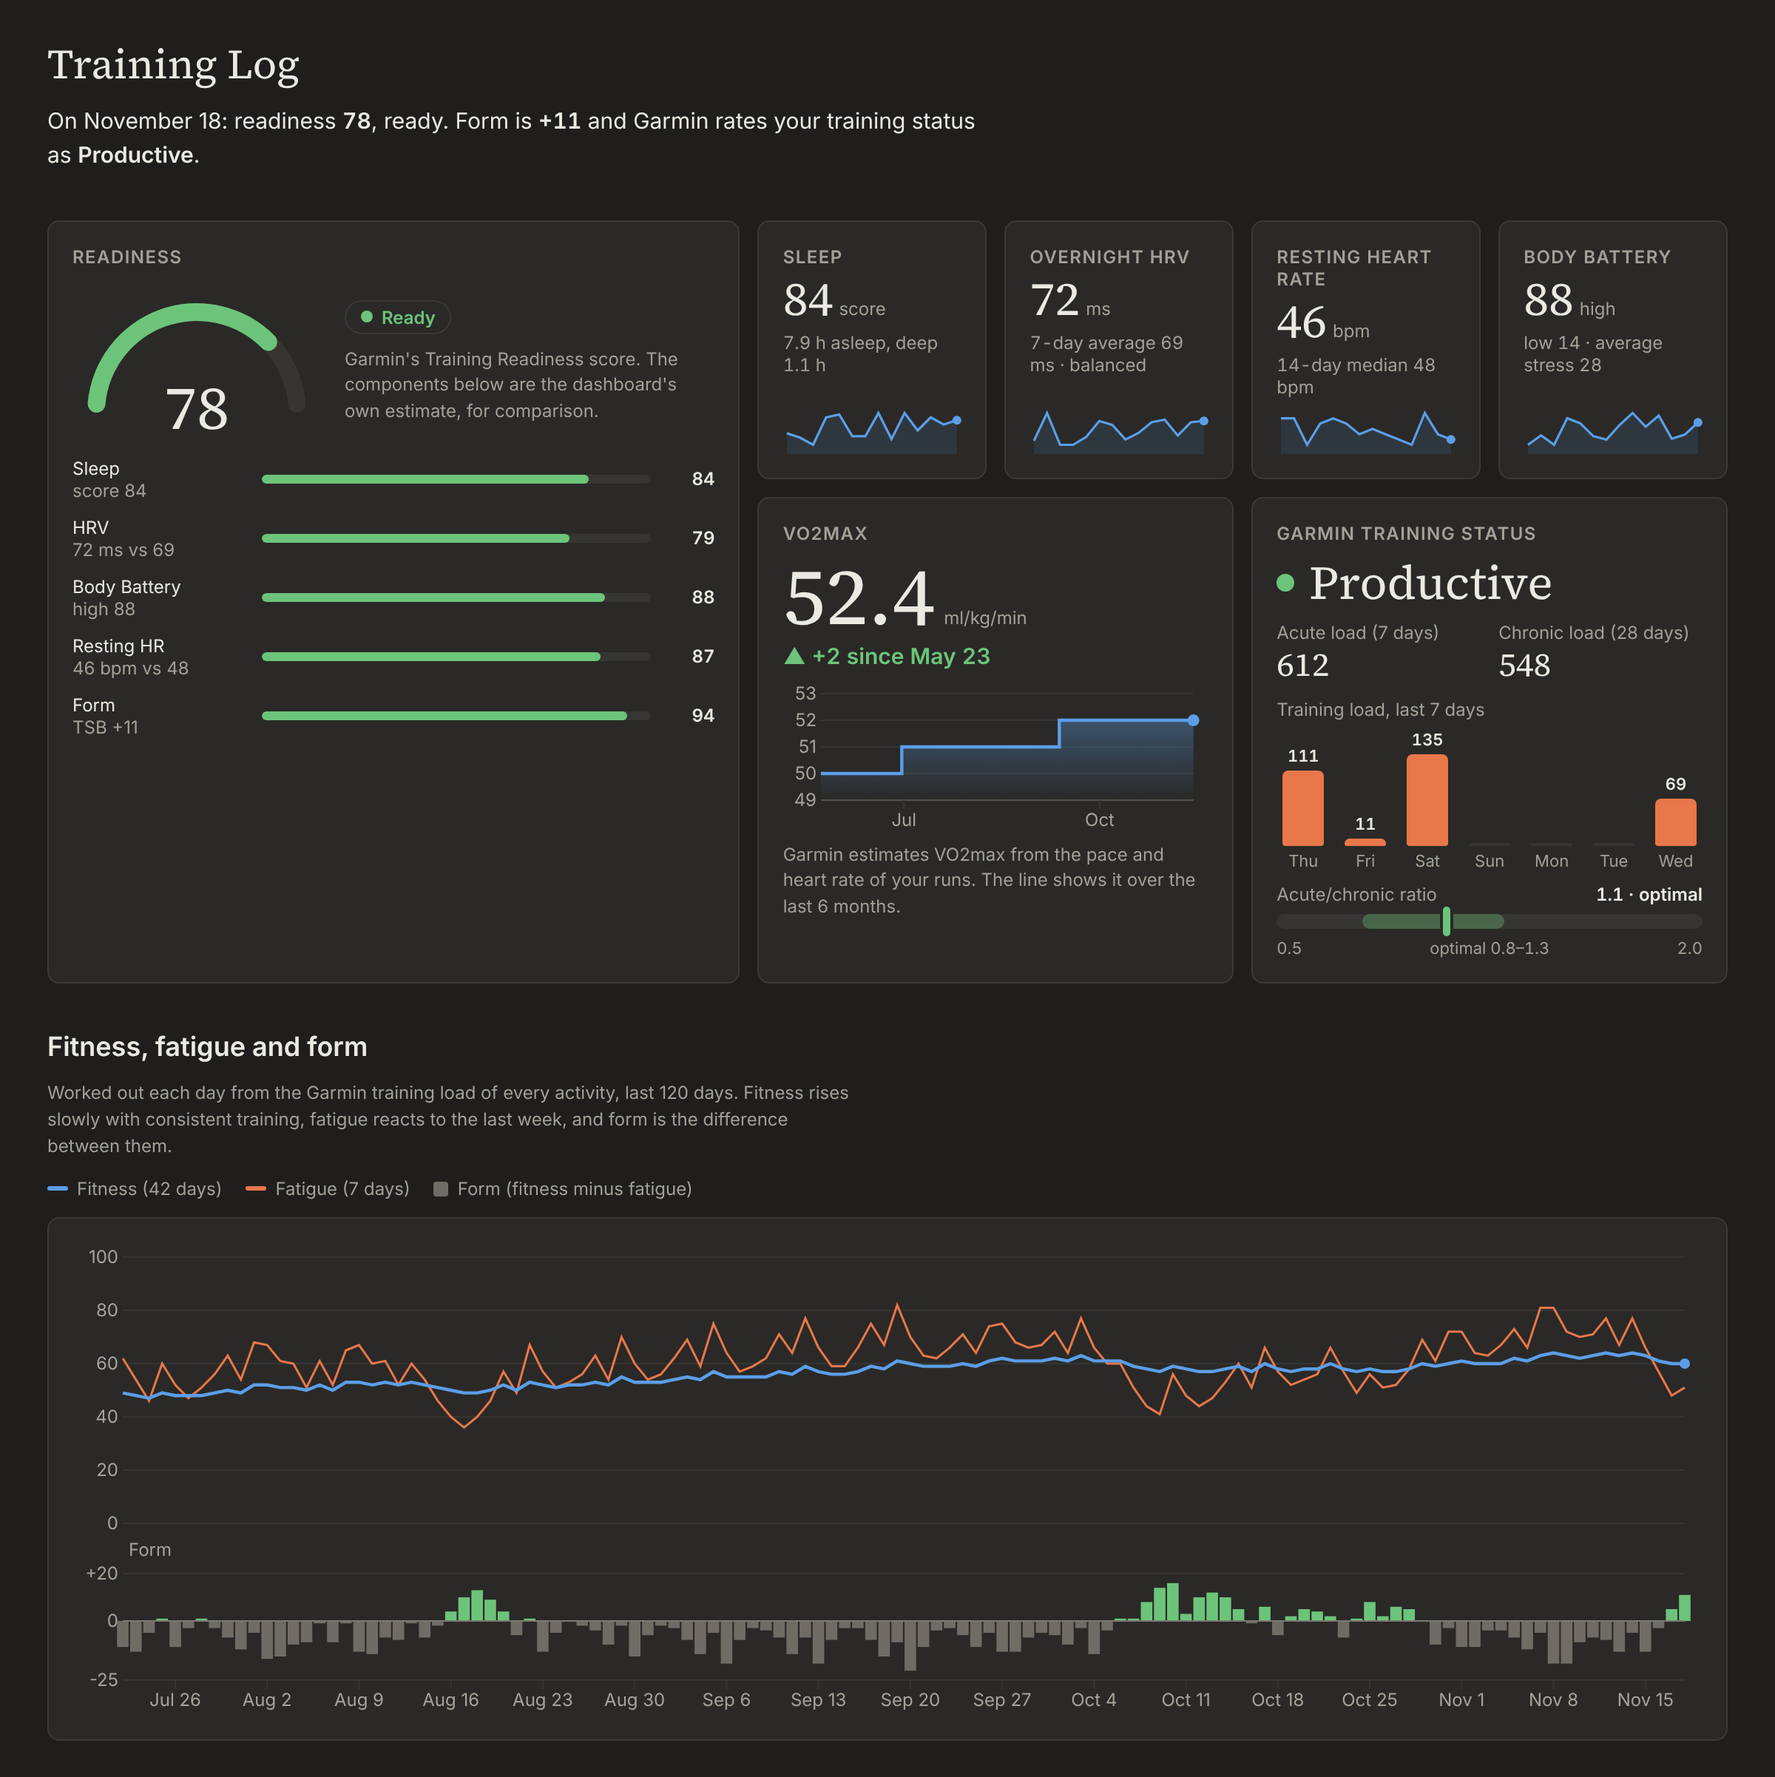
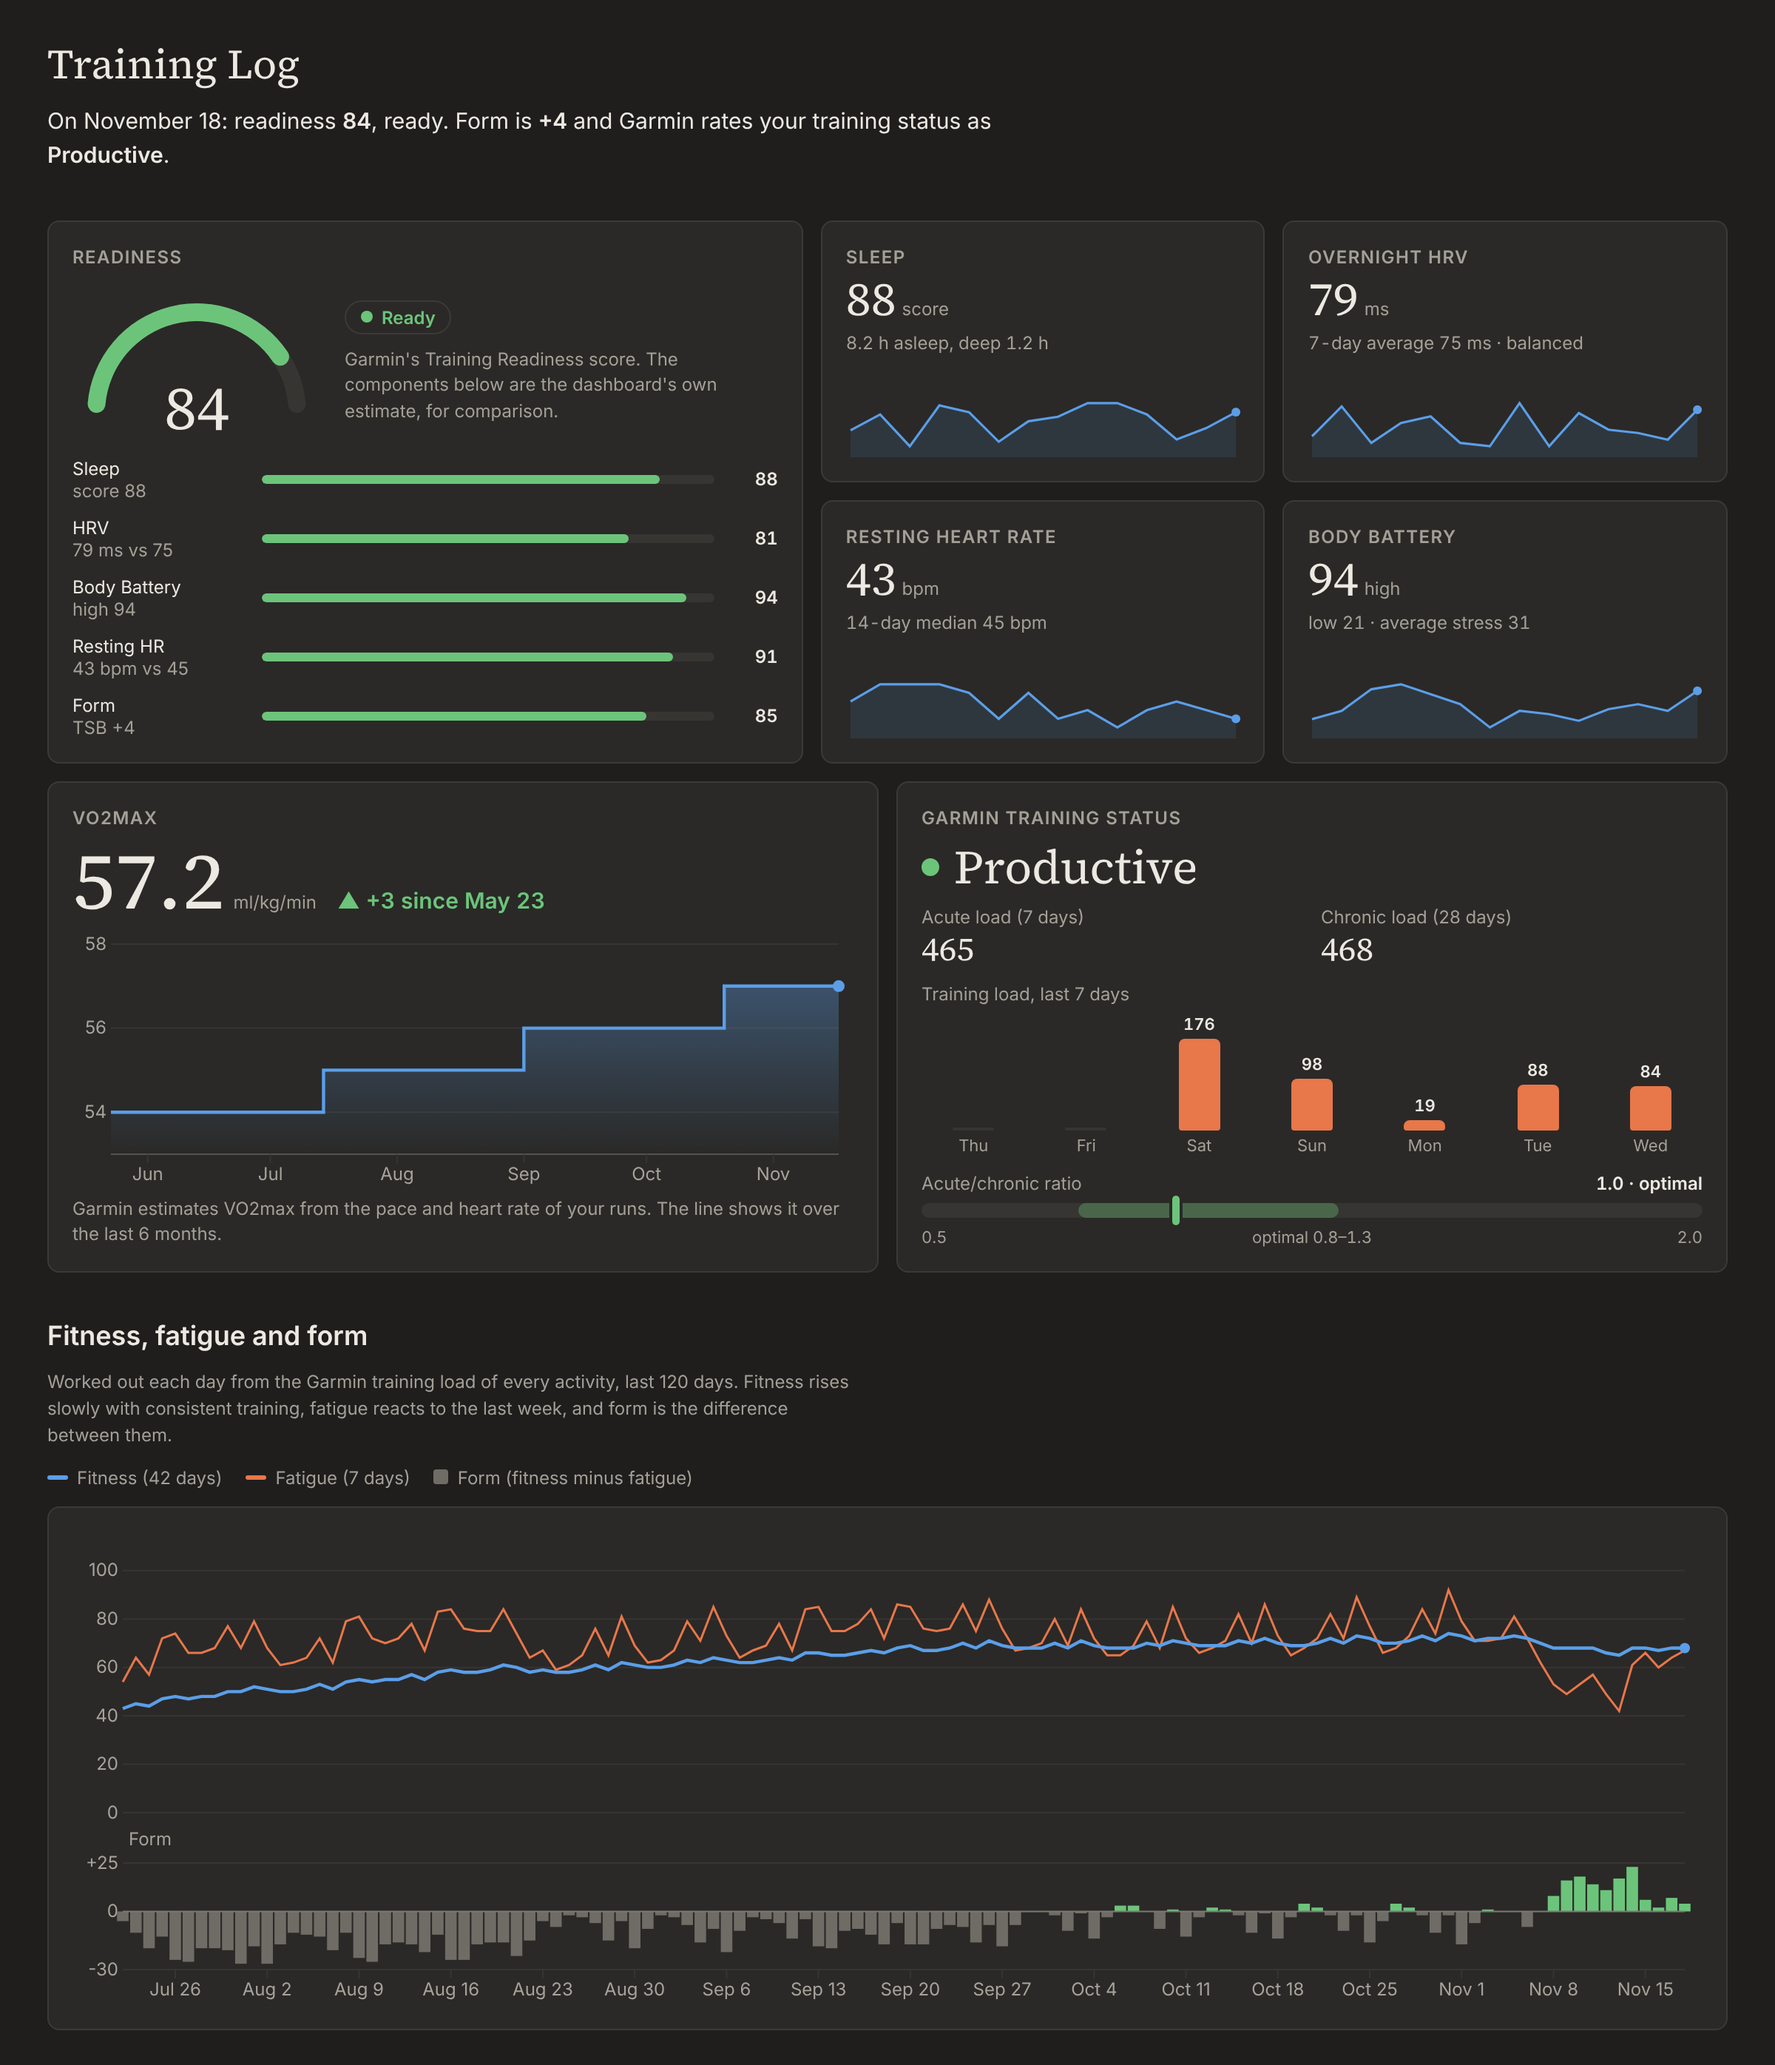
Tighter Today layout; livelier sample screenshots
The four small cards sit in a 2x2 grid beside readiness, so both
columns end level, and VO2max and the training status get their own
row with a taller VO2max chart. No card is left with empty space at
the bottom. README screenshots use new invented sample data whose
VO2max climbs from 54 to 57 and whose acute and chronic loads are
worked out from the sample sessions.

Claude-Session: https://claude.ai/code/session_01WWRtrPEG65dtcUr62con1J

diff --git a/dashboard/index.html b/dashboard/index.html
@@ -12,7 +12,7 @@
   .jt-card { background: var(--color-panel); border: 1px solid var(--color-border-line); border-radius: var(--cds-radius); padding: var(--cds-pad-lg); min-width: 0; }
 
   /* Today */
-  .jt-today { display: grid; grid-template-columns: minmax(0, 5fr) minmax(0, 7fr); gap: var(--cds-gap-md); }
+  .jt-today { display: grid; grid-template-columns: minmax(0, 5fr) minmax(0, 6fr); gap: var(--cds-gap-md); }
   @container (max-width: 760px) { .jt-today { grid-template-columns: minmax(0, 1fr); } }
   @media (max-width: 760px) { .jt-today { grid-template-columns: minmax(0, 1fr); } }
   .jt-ready { display: flex; flex-direction: column; gap: var(--cds-gap-md); }
@@ -34,13 +34,13 @@
   .jt-comp-bar i { display: block; height: 100%; border-radius: 3px; }
   .jt-comp-val { text-align: right; font-variant-numeric: tabular-nums; font-weight: var(--cds-font-weight-medium); }
 
-  .jt-tiles { display: grid; grid-template-columns: repeat(auto-fit, minmax(150px, 1fr)); gap: var(--cds-gap-md); }
+  .jt-tiles { display: grid; grid-template-columns: repeat(2, minmax(0, 1fr)); gap: var(--cds-gap-md); }
   .jt-tile { display: flex; flex-direction: column; gap: 4px; }
   .jt-big { margin: 0; font-family: var(--font-anthropic-serif); font-weight: 400; font-size: 2rem; line-height: 1.1; font-variant-numeric: tabular-nums; }
   .jt-big small { font-family: var(--font-anthropic-sans); font-size: var(--cds-font-size-caption); color: var(--color-fg-muted); margin-left: 4px; }
   .jt-sub { margin: 0; font-size: var(--cds-font-size-caption); color: var(--color-fg-muted); font-variant-numeric: tabular-nums; min-height: 1.3em; }
-  .jt-spark { height: 34px; margin-top: auto; }
-  .jt-duo { grid-column: 1 / -1; display: grid; grid-template-columns: repeat(auto-fit, minmax(17rem, 1fr)); gap: var(--cds-gap-md); }
+  .jt-spark { height: 44px; margin-top: auto; }
+  .jt-duo { display: grid; grid-template-columns: repeat(auto-fit, minmax(17rem, 1fr)); gap: var(--cds-gap-md); }
   .jt-status, .jt-vo2 { display: flex; flex-direction: column; gap: var(--cds-gap-sm); min-width: 0; }
   .jt-status-word { margin: 0; display: flex; align-items: center; gap: 10px; font-family: var(--font-anthropic-serif); font-weight: 400; font-size: 2rem; line-height: 1.15; overflow-wrap: anywhere; }
   .jt-status-dot { flex: none; width: 12px; height: 12px; border-radius: 50%; }
@@ -61,14 +61,14 @@
   .jt-vo2-delta { margin: 0; font-size: var(--cds-font-size-body); font-weight: var(--cds-font-weight-medium); font-variant-numeric: tabular-nums; color: var(--color-fg-muted); }
   .jt-vo2-delta.is-up { color: var(--color-ok); }
   .jt-vo2-delta.is-down { color: var(--color-bad); }
-  .jt-chart.jt-vo2-chart { min-height: 100px; }
+  .jt-chart.jt-vo2-chart { min-height: 170px; }
   .jt-week-load { display: flex; flex-direction: column; gap: 6px; }
   .jt-week-chart { display: flex; align-items: flex-end; gap: 6px; height: 96px; }
   .jt-wl-col { flex: 1 1 0; min-width: 0; height: 100%; display: flex; flex-direction: column; align-items: center; justify-content: flex-end; gap: 3px; font-size: 11px; color: var(--color-fg-muted); font-variant-numeric: tabular-nums; }
   .jt-wl-col b { color: var(--color-fg); font-weight: var(--cds-font-weight-medium); }
   .jt-wl-bar { width: 100%; max-width: 28px; min-height: 2px; border-radius: 4px 4px 2px 2px; }
   .jt-vo2-chart svg { display: block; width: 100%; overflow: visible; }
-  .jt-spark svg { display: block; width: 100%; height: 34px; overflow: visible; }
+  .jt-spark svg { display: block; width: 100%; height: 44px; overflow: visible; }
 
   /* Charts */
   .jt-chart { position: relative; min-height: 220px; width: 100%; }
@@ -176,35 +176,35 @@
           <p class="jt-sub" data-draw="bb-sub">—</p>
           <div class="jt-spark" data-draw="bb-spark" data-source="daily"></div>
         </article>
-        <div class="jt-duo">
-          <article class="jt-card jt-vo2" id="vo2max">
-            <h3 class="jt-label">VO2max</h3>
-            <div class="jt-vo2-main">
-              <p class="jt-vo2-val" data-draw="vo2-val">—</p>
-              <p class="jt-vo2-delta" data-draw="vo2-delta">—</p>
-            </div>
-            <div class="jt-chart jt-vo2-chart" id="chart-vo2max" data-draw="vo2-chart" data-source="vo2"></div>
-            <p class="jt-note">Garmin estimates VO2max from the pace and heart rate of your runs. The line shows it over the last 6 months.</p>
-          </article>
-          <article class="jt-card jt-status" id="status-garmin">
-            <h3 class="jt-label">Garmin training status</h3>
-            <p class="jt-status-word" data-draw="status-val">—</p>
-            <dl class="jt-status-stats">
-              <div><dt>Acute load (7 days)</dt><dd data-draw="status-acute">—</dd></div>
-              <div><dt>Chronic load (28 days)</dt><dd data-draw="status-chronic">—</dd></div>
-            </dl>
-            <div class="jt-week-load">
-              <div class="jt-acwr-head"><span>Training load, last 7 days</span></div>
-              <div class="jt-week-chart" id="chart-week-load" data-draw="load-week" data-source="pmc"></div>
-            </div>
-            <div class="jt-acwr">
-              <div class="jt-acwr-head"><span>Acute/chronic ratio</span><b data-draw="status-acwr">—</b></div>
-              <div class="jt-acwr-bar" data-draw="acwr-bar" data-source="status"></div>
-              <div class="jt-acwr-scale"><span>0.5</span><span>optimal 0.8–1.3</span><span>2.0</span></div>
-            </div>
-          </article>
-        </div>
       </div>
+    </div>
+    <div class="jt-duo">
+      <article class="jt-card jt-vo2" id="vo2max">
+        <h3 class="jt-label">VO2max</h3>
+        <div class="jt-vo2-main">
+          <p class="jt-vo2-val" data-draw="vo2-val">—</p>
+          <p class="jt-vo2-delta" data-draw="vo2-delta">—</p>
+        </div>
+        <div class="jt-chart jt-vo2-chart" id="chart-vo2max" data-draw="vo2-chart" data-source="vo2"></div>
+        <p class="jt-note">Garmin estimates VO2max from the pace and heart rate of your runs. The line shows it over the last 6 months.</p>
+      </article>
+      <article class="jt-card jt-status" id="status-garmin">
+        <h3 class="jt-label">Garmin training status</h3>
+        <p class="jt-status-word" data-draw="status-val">—</p>
+        <dl class="jt-status-stats">
+          <div><dt>Acute load (7 days)</dt><dd data-draw="status-acute">—</dd></div>
+          <div><dt>Chronic load (28 days)</dt><dd data-draw="status-chronic">—</dd></div>
+        </dl>
+        <div class="jt-week-load">
+          <div class="jt-acwr-head"><span>Training load, last 7 days</span></div>
+          <div class="jt-week-chart" id="chart-week-load" data-draw="load-week" data-source="pmc"></div>
+        </div>
+        <div class="jt-acwr">
+          <div class="jt-acwr-head"><span>Acute/chronic ratio</span><b data-draw="status-acwr">—</b></div>
+          <div class="jt-acwr-bar" data-draw="acwr-bar" data-source="status"></div>
+          <div class="jt-acwr-scale"><span>0.5</span><span>optimal 0.8–1.3</span><span>2.0</span></div>
+        </div>
+      </article>
     </div>
   </section>
 
@@ -783,7 +783,7 @@
       if (d.status !== 'ok') return;
       const rows = d.data.slice(0, 14).filter((r) => r[field] != null).reverse();
       if (rows.length < 2) return;
-      const w = Math.max(100, el.clientWidth || 160); const h = 34;
+      const w = Math.max(100, el.clientWidth || 160); const h = 44;
       const x = d3.scaleUtc().domain(d3.extent(rows, (r) => JT.parse(r.date))).range([3, w - 3]);
       const ext = d3.extent(rows, (r) => r[field]);
       const pad = (ext[1] - ext[0]) * 0.15 || 2;
@@ -916,7 +916,7 @@
     const V = dash.data('vo2');
     if (V.status !== 'ok' || !V.data || V.data.length < 2) { el.replaceChildren(); if (V.status !== 'ok') JT.empty(el, ['activities']); return; }
     const rows = V.data.map((r) => ({ ...r, d: JT.parse(r.date) }));
-    const { svg, w, h } = JT.svg(el, 100);
+    const { svg, w, h } = JT.svg(el, 170);
     svg.attr('aria-label', 'VO2max from your runs over the last 6 months');
     const m = { l: 26, r: 10, t: 8, b: 20 };
     const x = d3.scaleUtc().domain(d3.extent(rows, (r) => r.d)).range([m.l, w - m.r]);
